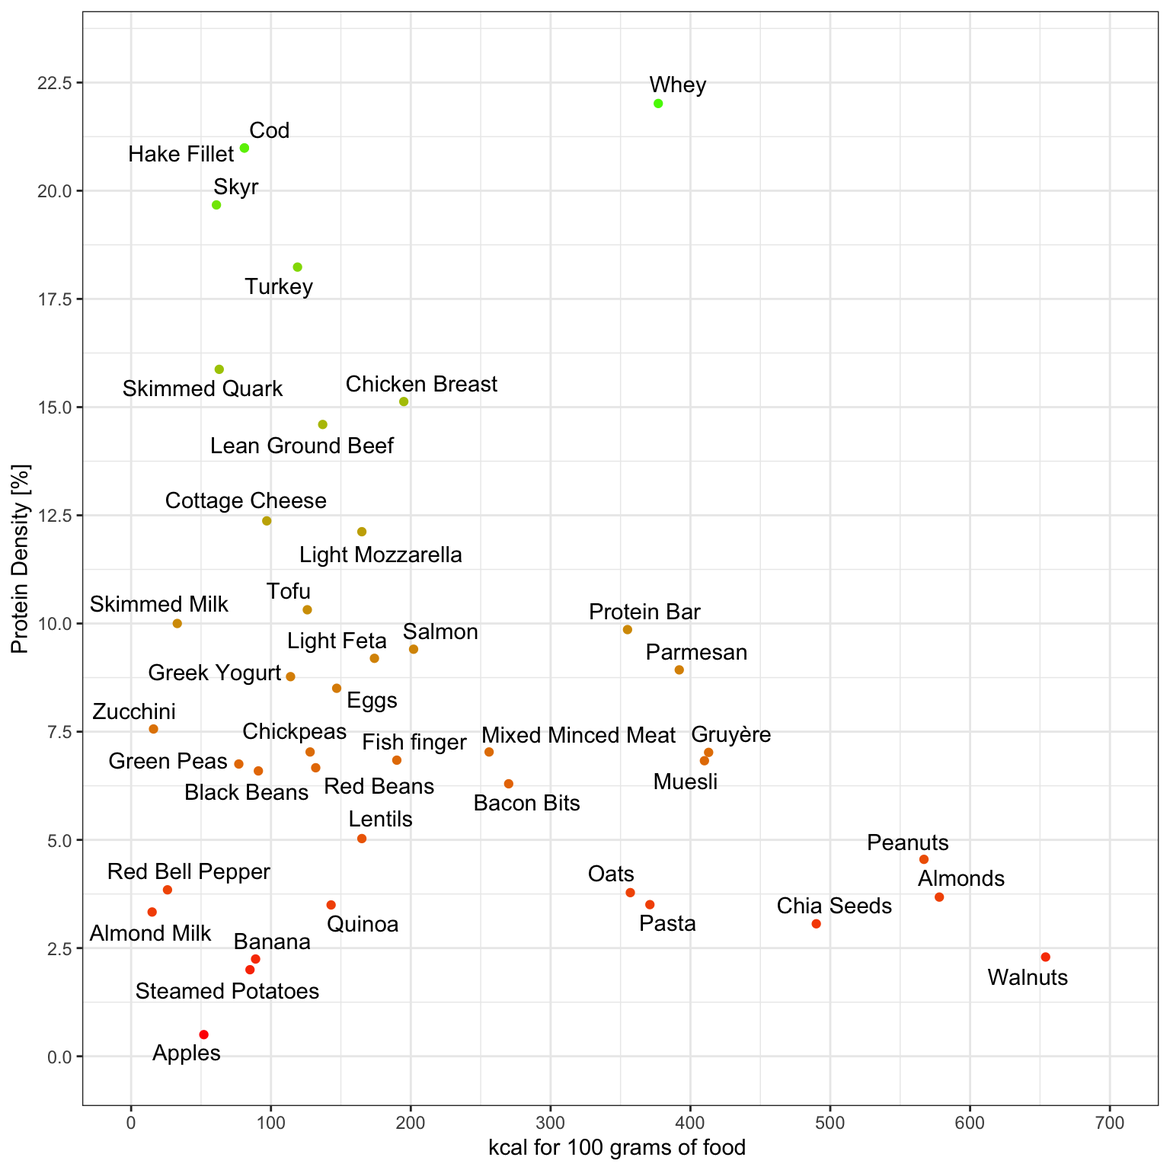
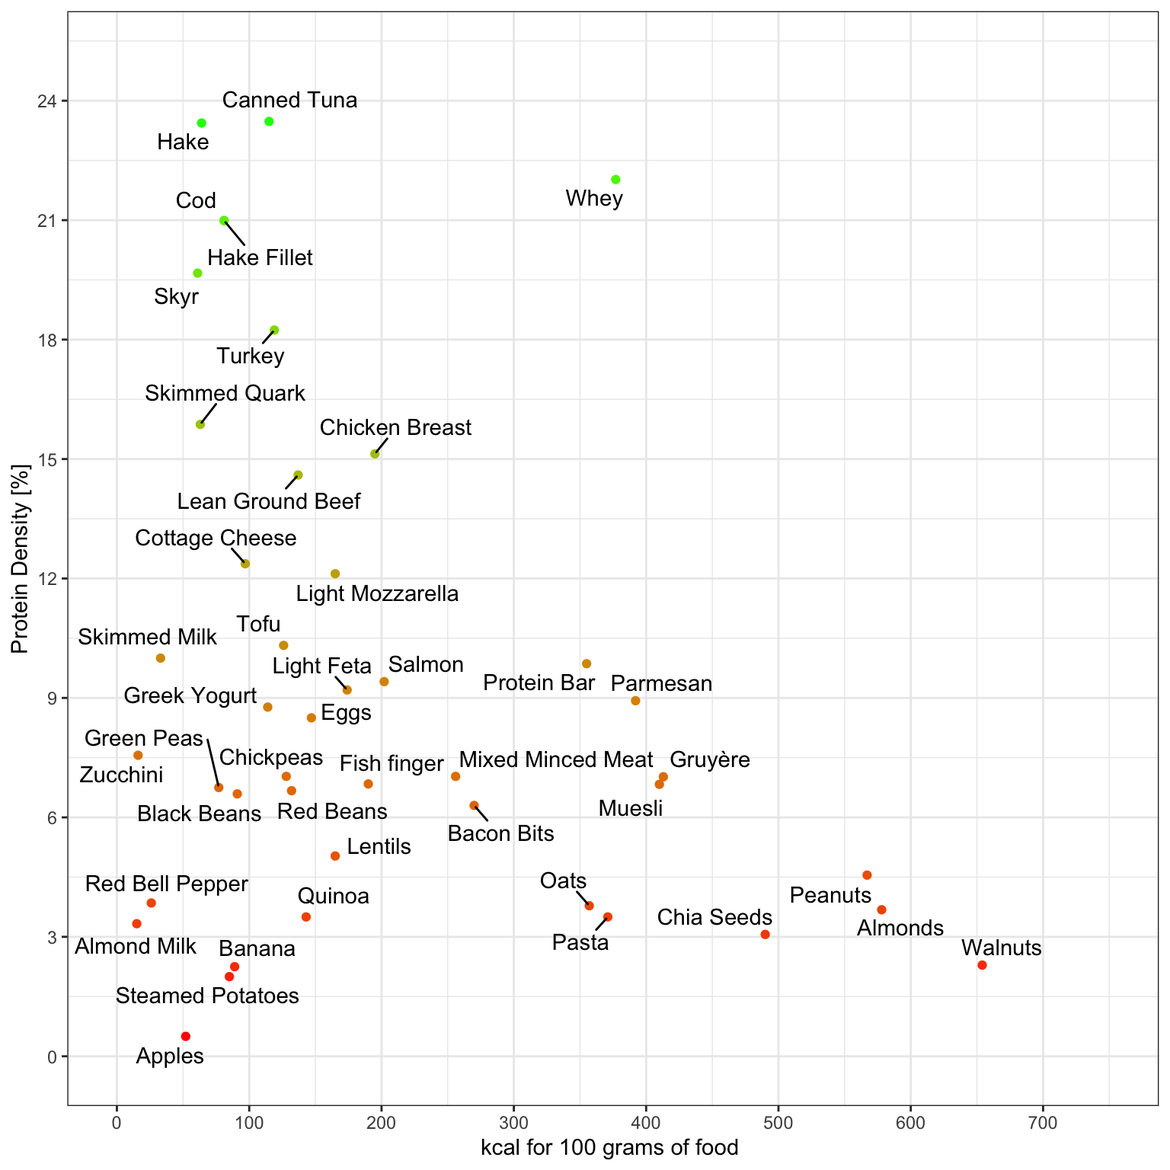
updates

diff --git a/dashboard.html b/dashboard.html
@@ -7,7 +7,7 @@
 <meta name="viewport" content="width=device-width, initial-scale=1.0, user-scalable=yes">
 
 <meta name="author" content="Andrés A.">
-<meta name="dcterms.date" content="2024-05-06">
+<meta name="dcterms.date" content="2024-05-23">
 
 <title>NutriPlot</title>
 <style>
@@ -116,7 +116,7 @@ pre > code.sourceCode > span > a:first-child::before { text-decoration: underlin
     <div>
     <div class="quarto-title-meta-heading">Published</div>
     <div class="quarto-title-meta-contents">
-      <p class="date">May 6, 2024</p>
+      <p class="date">May 23, 2024</p>
     </div>
   </div>
   
@@ -159,25 +159,33 @@ pre > code.sourceCode > span > a:first-child::before { text-decoration: underlin
 <summary>Code</summary>
 <div class="sourceCode cell-code" id="cb1"><pre class="sourceCode r code-with-copy"><code class="sourceCode r"><span id="cb1-1"><a href="#cb1-1" aria-hidden="true" tabindex="-1"></a><span class="fu">source</span>(<span class="st">"libraries.R"</span>)</span>
 <span id="cb1-2"><a href="#cb1-2" aria-hidden="true" tabindex="-1"></a></span>
-<span id="cb1-3"><a href="#cb1-3" aria-hidden="true" tabindex="-1"></a>dr <span class="ot">&lt;-</span> <span class="fu">read_csv</span>(<span class="st">"prot.csv"</span>, <span class="at">show_col_types =</span> <span class="cn">FALSE</span> )</span>
+<span id="cb1-3"><a href="#cb1-3" aria-hidden="true" tabindex="-1"></a>dr <span class="ot">&lt;-</span> <span class="fu">read_csv</span>(<span class="st">"data.csv"</span>, <span class="at">show_col_types =</span> <span class="cn">FALSE</span> )</span>
 <span id="cb1-4"><a href="#cb1-4" aria-hidden="true" tabindex="-1"></a></span>
 <span id="cb1-5"><a href="#cb1-5" aria-hidden="true" tabindex="-1"></a>df <span class="ot">&lt;-</span> dr <span class="sc">%&gt;%</span> </span>
-<span id="cb1-6"><a href="#cb1-6" aria-hidden="true" tabindex="-1"></a>  <span class="fu">mutate</span>(<span class="at">perc_prot =</span> prot_per_100g<span class="sc">/</span>kcal_per_100g<span class="sc">*</span><span class="dv">100</span>, <span class="at">prot_per_serving =</span> prot_per_100g <span class="sc">*</span>serving <span class="sc">/</span><span class="dv">100</span>,</span>
-<span id="cb1-7"><a href="#cb1-7" aria-hidden="true" tabindex="-1"></a>         <span class="at">kal_per_serving =</span> kcal_per_100g<span class="sc">*</span>serving <span class="sc">/</span><span class="dv">100</span>)</span>
-<span id="cb1-8"><a href="#cb1-8" aria-hidden="true" tabindex="-1"></a></span>
-<span id="cb1-9"><a href="#cb1-9" aria-hidden="true" tabindex="-1"></a>scatter_plot1 <span class="ot">&lt;-</span> df <span class="sc">%&gt;%</span> </span>
-<span id="cb1-10"><a href="#cb1-10" aria-hidden="true" tabindex="-1"></a>  <span class="fu">ggplot</span>() <span class="sc">+</span></span>
-<span id="cb1-11"><a href="#cb1-11" aria-hidden="true" tabindex="-1"></a>  <span class="co"># Add points to the plot with kcal on x-axis and perc_prot on y-axis</span></span>
-<span id="cb1-12"><a href="#cb1-12" aria-hidden="true" tabindex="-1"></a>  <span class="fu">geom_point</span>(<span class="fu">aes</span>(<span class="at">x =</span> kcal_per_100g, <span class="at">y =</span> perc_prot, <span class="at">color =</span> perc_prot, <span class="at">text =</span> name)) <span class="sc">+</span>    </span>
-<span id="cb1-13"><a href="#cb1-13" aria-hidden="true" tabindex="-1"></a>  <span class="co"># Add text labels using geom_text_repel</span></span>
-<span id="cb1-14"><a href="#cb1-14" aria-hidden="true" tabindex="-1"></a>  <span class="fu">geom_text_repel</span>(<span class="fu">aes</span>(<span class="at">x =</span> kcal_per_100g, <span class="at">y =</span> perc_prot, <span class="at">label =</span> name), <span class="at">force =</span> <span class="dv">6</span>) <span class="sc">+</span>  </span>
-<span id="cb1-15"><a href="#cb1-15" aria-hidden="true" tabindex="-1"></a>  <span class="fu">scale_x_continuous</span>(<span class="at">n.breaks =</span> <span class="dv">10</span>,<span class="at">limits =</span> <span class="fu">c</span>(<span class="dv">0</span>,<span class="dv">700</span>)) <span class="sc">+</span></span>
-<span id="cb1-16"><a href="#cb1-16" aria-hidden="true" tabindex="-1"></a>  <span class="fu">scale_y_continuous</span>(<span class="at">n.breaks =</span> <span class="dv">10</span>,<span class="at">limits =</span> <span class="fu">c</span>(<span class="dv">0</span>,<span class="dv">23</span>)) <span class="sc">+</span></span>
-<span id="cb1-17"><a href="#cb1-17" aria-hidden="true" tabindex="-1"></a>  <span class="fu">scale_color_gradient</span>(<span class="at">low =</span> <span class="st">'red'</span>,<span class="at">high =</span> <span class="st">"green"</span>) <span class="sc">+</span></span>
-<span id="cb1-18"><a href="#cb1-18" aria-hidden="true" tabindex="-1"></a>  <span class="fu">theme</span>(<span class="at">legend.position =</span> <span class="st">"none"</span>) <span class="sc">+</span></span>
-<span id="cb1-19"><a href="#cb1-19" aria-hidden="true" tabindex="-1"></a>  <span class="fu">labs</span>(<span class="at">y =</span> <span class="st">"Protein Density [%]"</span>, <span class="at">x =</span> <span class="st">"kcal for 100 grams of food "</span>)    </span>
-<span id="cb1-20"><a href="#cb1-20" aria-hidden="true" tabindex="-1"></a></span>
-<span id="cb1-21"><a href="#cb1-21" aria-hidden="true" tabindex="-1"></a>scatter_plot1</span></code><button title="Copy to Clipboard" class="code-copy-button"><i class="bi"></i></button></pre></div>
+<span id="cb1-6"><a href="#cb1-6" aria-hidden="true" tabindex="-1"></a>  <span class="fu">mutate</span>(<span class="at">perc_prot =</span> prot_per_100g<span class="sc">/</span>kcal_per_100g<span class="sc">*</span><span class="dv">100</span>, </span>
+<span id="cb1-7"><a href="#cb1-7" aria-hidden="true" tabindex="-1"></a>         <span class="at">prot_per_serving =</span> prot_per_100g <span class="sc">*</span>serving <span class="sc">/</span><span class="dv">100</span>,</span>
+<span id="cb1-8"><a href="#cb1-8" aria-hidden="true" tabindex="-1"></a>         <span class="at">kal_per_serving =</span> kcal_per_100g<span class="sc">*</span>serving <span class="sc">/</span><span class="dv">100</span>,</span>
+<span id="cb1-9"><a href="#cb1-9" aria-hidden="true" tabindex="-1"></a>         <span class="at">perc_prot =</span> <span class="fu">round</span>(perc_prot,<span class="dv">2</span>) </span>
+<span id="cb1-10"><a href="#cb1-10" aria-hidden="true" tabindex="-1"></a>         ) <span class="sc">|&gt;</span>   </span>
+<span id="cb1-11"><a href="#cb1-11" aria-hidden="true" tabindex="-1"></a>  <span class="fu">select</span>(name,kcal_per_100g,prot_per_100g,perc_prot)  <span class="sc">|&gt;</span> </span>
+<span id="cb1-12"><a href="#cb1-12" aria-hidden="true" tabindex="-1"></a>  dplyr<span class="sc">::</span><span class="fu">arrange</span>(<span class="fu">desc</span>(perc_prot)) </span>
+<span id="cb1-13"><a href="#cb1-13" aria-hidden="true" tabindex="-1"></a></span>
+<span id="cb1-14"><a href="#cb1-14" aria-hidden="true" tabindex="-1"></a>shared_df <span class="ot">&lt;-</span> SharedData<span class="sc">$</span><span class="fu">new</span>(df)</span>
+<span id="cb1-15"><a href="#cb1-15" aria-hidden="true" tabindex="-1"></a></span>
+<span id="cb1-16"><a href="#cb1-16" aria-hidden="true" tabindex="-1"></a>scatter_plot1 <span class="ot">&lt;-</span> shared_df <span class="sc">%&gt;%</span> </span>
+<span id="cb1-17"><a href="#cb1-17" aria-hidden="true" tabindex="-1"></a>  <span class="fu">ggplot</span>() <span class="sc">+</span></span>
+<span id="cb1-18"><a href="#cb1-18" aria-hidden="true" tabindex="-1"></a>  <span class="co"># Add points to the plot with kcal on x-axis and perc_prot on y-axis</span></span>
+<span id="cb1-19"><a href="#cb1-19" aria-hidden="true" tabindex="-1"></a>  <span class="fu">geom_point</span>(<span class="fu">aes</span>(<span class="at">x =</span> kcal_per_100g, <span class="at">y =</span> perc_prot, <span class="at">color =</span> perc_prot, <span class="at">text =</span> name)) <span class="sc">+</span>    </span>
+<span id="cb1-20"><a href="#cb1-20" aria-hidden="true" tabindex="-1"></a>  <span class="co"># Add text labels using geom_text_repel</span></span>
+<span id="cb1-21"><a href="#cb1-21" aria-hidden="true" tabindex="-1"></a>  <span class="fu">geom_text_repel</span>(<span class="fu">aes</span>(<span class="at">x =</span> kcal_per_100g, <span class="at">y =</span> perc_prot, <span class="at">label =</span> name), <span class="at">force =</span> <span class="dv">18</span>,<span class="at">max.overlaps =</span> <span class="dv">40</span>) <span class="sc">+</span>  </span>
+<span id="cb1-22"><a href="#cb1-22" aria-hidden="true" tabindex="-1"></a>  <span class="fu">scale_x_continuous</span>(<span class="at">n.breaks =</span> <span class="dv">10</span>,<span class="at">limits =</span> <span class="fu">c</span>(<span class="dv">0</span>,<span class="dv">750</span>)) <span class="sc">+</span></span>
+<span id="cb1-23"><a href="#cb1-23" aria-hidden="true" tabindex="-1"></a>  <span class="fu">scale_y_continuous</span>(<span class="at">n.breaks =</span> <span class="dv">10</span>,<span class="at">limits =</span> <span class="fu">c</span>(<span class="dv">0</span>,<span class="dv">25</span>)) <span class="sc">+</span></span>
+<span id="cb1-24"><a href="#cb1-24" aria-hidden="true" tabindex="-1"></a>  <span class="fu">scale_color_gradient</span>(<span class="at">low =</span> <span class="st">'red'</span>,<span class="at">high =</span> <span class="st">"green"</span>) <span class="sc">+</span></span>
+<span id="cb1-25"><a href="#cb1-25" aria-hidden="true" tabindex="-1"></a>  <span class="fu">theme</span>(<span class="at">legend.position =</span> <span class="st">"none"</span>) <span class="sc">+</span></span>
+<span id="cb1-26"><a href="#cb1-26" aria-hidden="true" tabindex="-1"></a>  <span class="fu">labs</span>(<span class="at">y =</span> <span class="st">"Protein Density [%]"</span>, <span class="at">x =</span> <span class="st">"kcal for 100 grams of food "</span>)    </span>
+<span id="cb1-27"><a href="#cb1-27" aria-hidden="true" tabindex="-1"></a></span>
+<span id="cb1-28"><a href="#cb1-28" aria-hidden="true" tabindex="-1"></a>scatter_plot1</span>
+<span id="cb1-29"><a href="#cb1-29" aria-hidden="true" tabindex="-1"></a><span class="co"># plotly::ggplotly(scatter_plot1)</span></span></code><button title="Copy to Clipboard" class="code-copy-button"><i class="bi"></i></button></pre></div>
 </details>
 <div class="cell-output-display">
 <div id="fig-NutriPlot1" class="quarto-figure quarto-figure-center quarto-float anchored">
@@ -195,33 +203,23 @@ Figure&nbsp;1: for 100g of content
 <div class="cell">
 <details class="code-fold">
 <summary>Code</summary>
-<div class="sourceCode cell-code" id="cb2"><pre class="sourceCode r code-with-copy"><code class="sourceCode r"><span id="cb2-1"><a href="#cb2-1" aria-hidden="true" tabindex="-1"></a><span class="co"># table_recap &lt;- df %&gt;% </span></span>
-<span id="cb2-2"><a href="#cb2-2" aria-hidden="true" tabindex="-1"></a><span class="co">#   select(name,kcal_per_100g,prot_per_100g,perc_prot) %&gt;% </span></span>
-<span id="cb2-3"><a href="#cb2-3" aria-hidden="true" tabindex="-1"></a><span class="co">#   dplyr::arrange(desc(perc_prot)) %&gt;% </span></span>
-<span id="cb2-4"><a href="#cb2-4" aria-hidden="true" tabindex="-1"></a><span class="co">#   kable(col.names = c("names","Kcal for 100g","grams protein for 100g of food","Protein Density [%]"),</span></span>
-<span id="cb2-5"><a href="#cb2-5" aria-hidden="true" tabindex="-1"></a><span class="co">#         digits = 2)</span></span>
-<span id="cb2-6"><a href="#cb2-6" aria-hidden="true" tabindex="-1"></a><span class="co"># </span></span>
-<span id="cb2-7"><a href="#cb2-7" aria-hidden="true" tabindex="-1"></a><span class="co"># </span></span>
-<span id="cb2-8"><a href="#cb2-8" aria-hidden="true" tabindex="-1"></a><span class="co"># table_recap</span></span>
-<span id="cb2-9"><a href="#cb2-9" aria-hidden="true" tabindex="-1"></a></span>
-<span id="cb2-10"><a href="#cb2-10" aria-hidden="true" tabindex="-1"></a>t <span class="ot">&lt;-</span> df <span class="sc">%&gt;%</span> </span>
-<span id="cb2-11"><a href="#cb2-11" aria-hidden="true" tabindex="-1"></a>  <span class="fu">mutate</span>(<span class="at">perc_prot =</span> <span class="fu">round</span>(perc_prot,<span class="dv">2</span>) ) <span class="sc">%&gt;%</span> </span>
-<span id="cb2-12"><a href="#cb2-12" aria-hidden="true" tabindex="-1"></a>  <span class="fu">select</span>(name,kcal_per_100g,prot_per_100g,perc_prot) <span class="sc">%&gt;%</span> </span>
-<span id="cb2-13"><a href="#cb2-13" aria-hidden="true" tabindex="-1"></a>  dplyr<span class="sc">::</span><span class="fu">arrange</span>(<span class="fu">desc</span>(perc_prot)) <span class="sc">%&gt;%</span> </span>
-<span id="cb2-14"><a href="#cb2-14" aria-hidden="true" tabindex="-1"></a>  DT<span class="sc">::</span><span class="fu">datatable</span>(<span class="at">colnames =</span> <span class="fu">c</span>(<span class="st">"names"</span>,<span class="st">"Kcal for 100g"</span>,<span class="st">"grams protein for 100g of food"</span>,<span class="st">"Protein Density [%]"</span>),</span>
-<span id="cb2-15"><a href="#cb2-15" aria-hidden="true" tabindex="-1"></a>                <span class="at">options =</span> <span class="fu">list</span>(<span class="at">paging =</span> T, </span>
-<span id="cb2-16"><a href="#cb2-16" aria-hidden="true" tabindex="-1"></a>                               <span class="at">pageLength =</span> <span class="dv">20</span>,</span>
-<span id="cb2-17"><a href="#cb2-17" aria-hidden="true" tabindex="-1"></a>                               <span class="at">dom =</span> <span class="st">"t"</span>,</span>
-<span id="cb2-18"><a href="#cb2-18" aria-hidden="true" tabindex="-1"></a>                               <span class="at">scrollX =</span> <span class="cn">TRUE</span>),</span>
-<span id="cb2-19"><a href="#cb2-19" aria-hidden="true" tabindex="-1"></a>                <span class="at">rownames =</span> <span class="cn">FALSE</span>,</span>
-<span id="cb2-20"><a href="#cb2-20" aria-hidden="true" tabindex="-1"></a>                <span class="at">filter =</span> <span class="st">'top'</span>,</span>
-<span id="cb2-21"><a href="#cb2-21" aria-hidden="true" tabindex="-1"></a>                <span class="at">escape =</span> F)</span>
-<span id="cb2-22"><a href="#cb2-22" aria-hidden="true" tabindex="-1"></a></span>
-<span id="cb2-23"><a href="#cb2-23" aria-hidden="true" tabindex="-1"></a>t</span></code><button title="Copy to Clipboard" class="code-copy-button"><i class="bi"></i></button></pre></div>
+<div class="sourceCode cell-code" id="cb2"><pre class="sourceCode r code-with-copy"><code class="sourceCode r"><span id="cb2-1"><a href="#cb2-1" aria-hidden="true" tabindex="-1"></a>t <span class="ot">&lt;-</span> shared_df <span class="sc">%&gt;%</span> </span>
+<span id="cb2-2"><a href="#cb2-2" aria-hidden="true" tabindex="-1"></a>  DT<span class="sc">::</span><span class="fu">datatable</span>(<span class="at">colnames =</span> <span class="fu">c</span>(<span class="st">"names"</span>,<span class="st">"Kcal for 100g"</span>,<span class="st">"grams protein for 100g of food"</span>,<span class="st">"Protein Density [%]"</span>),</span>
+<span id="cb2-3"><a href="#cb2-3" aria-hidden="true" tabindex="-1"></a>                <span class="at">options =</span> <span class="fu">list</span>(<span class="at">paging =</span> T, </span>
+<span id="cb2-4"><a href="#cb2-4" aria-hidden="true" tabindex="-1"></a>                               <span class="at">pageLength =</span> <span class="dv">20</span>,</span>
+<span id="cb2-5"><a href="#cb2-5" aria-hidden="true" tabindex="-1"></a>                               <span class="at">dom =</span> <span class="st">"t"</span>,</span>
+<span id="cb2-6"><a href="#cb2-6" aria-hidden="true" tabindex="-1"></a>                               <span class="at">scrollX =</span> <span class="cn">TRUE</span>),</span>
+<span id="cb2-7"><a href="#cb2-7" aria-hidden="true" tabindex="-1"></a>                <span class="at">rownames =</span> <span class="cn">FALSE</span>,</span>
+<span id="cb2-8"><a href="#cb2-8" aria-hidden="true" tabindex="-1"></a>                <span class="at">filter =</span> <span class="st">'top'</span>,</span>
+<span id="cb2-9"><a href="#cb2-9" aria-hidden="true" tabindex="-1"></a>                <span class="at">escape =</span> F,</span>
+<span id="cb2-10"><a href="#cb2-10" aria-hidden="true" tabindex="-1"></a>                <span class="at">selection =</span> <span class="st">"single"</span></span>
+<span id="cb2-11"><a href="#cb2-11" aria-hidden="true" tabindex="-1"></a>                )</span>
+<span id="cb2-12"><a href="#cb2-12" aria-hidden="true" tabindex="-1"></a></span>
+<span id="cb2-13"><a href="#cb2-13" aria-hidden="true" tabindex="-1"></a>t</span></code><button title="Copy to Clipboard" class="code-copy-button"><i class="bi"></i></button></pre></div>
 </details>
 <div class="cell-output-display">
-<div class="datatables html-widget html-fill-item" id="htmlwidget-96a62a12fa3909d7cb94" style="width:100%;height:auto;"></div>
-<script type="application/json" data-for="htmlwidget-96a62a12fa3909d7cb94">{"x":{"filter":"top","vertical":false,"filterHTML":"<tr>\n  <td data-type=\"character\" style=\"vertical-align: top;\">\n    <div class=\"form-group has-feedback\" style=\"margin-bottom: auto;\">\n      <input type=\"search\" placeholder=\"All\" class=\"form-control\" style=\"width: 100%;\"/>\n      <span class=\"glyphicon glyphicon-remove-circle form-control-feedback\"><\/span>\n    <\/div>\n  <\/td>\n  <td data-type=\"number\" style=\"vertical-align: top;\">\n    <div class=\"form-group has-feedback\" style=\"margin-bottom: auto;\">\n      <input type=\"search\" placeholder=\"All\" class=\"form-control\" style=\"width: 100%;\"/>\n      <span class=\"glyphicon glyphicon-remove-circle form-control-feedback\"><\/span>\n    <\/div>\n    <div style=\"display: none;position: absolute;width: 200px;opacity: 1\">\n      <div data-min=\"15\" data-max=\"654\"><\/div>\n      <span style=\"float: left;\"><\/span>\n      <span style=\"float: right;\"><\/span>\n    <\/div>\n  <\/td>\n  <td data-type=\"number\" style=\"vertical-align: top;\">\n    <div class=\"form-group has-feedback\" style=\"margin-bottom: auto;\">\n      <input type=\"search\" placeholder=\"All\" class=\"form-control\" style=\"width: 100%;\"/>\n      <span class=\"glyphicon glyphicon-remove-circle form-control-feedback\"><\/span>\n    <\/div>\n    <div style=\"display: none;position: absolute;width: 200px;opacity: 1\">\n      <div data-min=\"0.26\" data-max=\"83\" data-scale=\"2\"><\/div>\n      <span style=\"float: left;\"><\/span>\n      <span style=\"float: right;\"><\/span>\n    <\/div>\n  <\/td>\n  <td data-type=\"number\" style=\"vertical-align: top;\">\n    <div class=\"form-group has-feedback\" style=\"margin-bottom: auto;\">\n      <input type=\"search\" placeholder=\"All\" class=\"form-control\" style=\"width: 100%;\"/>\n      <span class=\"glyphicon glyphicon-remove-circle form-control-feedback\"><\/span>\n    <\/div>\n    <div style=\"display: none;position: absolute;width: 200px;opacity: 1\">\n      <div data-min=\"0.5\" data-max=\"23.48\" data-scale=\"2\"><\/div>\n      <span style=\"float: left;\"><\/span>\n      <span style=\"float: right;\"><\/span>\n    <\/div>\n  <\/td>\n<\/tr>","data":[["Tuna","Hake","Whey","Cod","Hake Fillet","Skyr","Turkey","Skimmed Quark","Chicken Breast","Lean Ground Beef","Cottage Cheese","Light Mozzarella","Tofu","Skimmed Milk","Protein Bar","Salmon","Light Feta","Parmesan","Greek Yogurt","Eggs","Zucchini","Chickpeas","Mixed Minced Meat","Gruyère","Fish finger","Muesli","Green Peas","Red Beans","Black Beans","Bacon Bits","Lentils","Peanuts","Red Bell Pepper","Oats","Almonds","Quinoa","Pasta","Almond Milk","Chia Seeds","Walnuts","Banana","Steamed Potatoes","Apples"],[115,64,377,81,81,61,119,63,195,137,97,165,126,33,355,202,174,392,114,147,16,128,256,413,190,410,77,132,91,270,165,567,26,357,578,143,371,15,490,654,89,85,52],[27,15,83,17,17,12,21.7,10,29.5,20,12,20,13,3.3,35,19,16,35,10,12.5,1.21,9,18,29,13,28,5.2,8.800000000000001,6,17,8.300000000000001,25.8,1,13.5,21.26,5,13,0.5,15,15,2,1.7,0.26],[23.48,23.44,22.02,20.99,20.99,19.67,18.24,15.87,15.13,14.6,12.37,12.12,10.32,10,9.859999999999999,9.41,9.199999999999999,8.93,8.77,8.5,7.56,7.03,7.03,7.02,6.84,6.83,6.75,6.67,6.59,6.3,5.03,4.55,3.85,3.78,3.68,3.5,3.5,3.33,3.06,2.29,2.25,2,0.5]],"container":"<table class=\"display\">\n  <thead>\n    <tr>\n      <th>names<\/th>\n      <th>Kcal for 100g<\/th>\n      <th>grams protein for 100g of food<\/th>\n      <th>Protein Density [%]<\/th>\n    <\/tr>\n  <\/thead>\n<\/table>","options":{"paging":true,"pageLength":20,"dom":"t","scrollX":true,"columnDefs":[{"className":"dt-right","targets":[1,2,3]},{"name":"name","targets":0},{"name":"kcal_per_100g","targets":1},{"name":"prot_per_100g","targets":2},{"name":"perc_prot","targets":3}],"order":[],"autoWidth":false,"orderClasses":false,"orderCellsTop":true,"lengthMenu":[10,20,25,50,100]}},"evals":[],"jsHooks":[]}</script>
+<div class="datatables html-widget html-fill-item" id="htmlwidget-0a72a7bbe25f288b1b7b" style="width:100%;height:auto;"></div>
+<script type="application/json" data-for="htmlwidget-0a72a7bbe25f288b1b7b">{"x":{"crosstalkOptions":{"key":["1","2","3","4","5","6","7","8","9","10","11","12","13","14","15","16","17","18","19","20","21","22","23","24","25","26","27","28","29","30","31","32","33","34","35","36","37","38","39","40","41","42","43"],"group":"SharedDataf0e23dd4"},"filter":"top","vertical":false,"filterHTML":"<tr>\n  <td data-type=\"character\" style=\"vertical-align: top;\">\n    <div class=\"form-group has-feedback\" style=\"margin-bottom: auto;\">\n      <input type=\"search\" placeholder=\"All\" class=\"form-control\" style=\"width: 100%;\"/>\n      <span class=\"glyphicon glyphicon-remove-circle form-control-feedback\"><\/span>\n    <\/div>\n  <\/td>\n  <td data-type=\"number\" style=\"vertical-align: top;\">\n    <div class=\"form-group has-feedback\" style=\"margin-bottom: auto;\">\n      <input type=\"search\" placeholder=\"All\" class=\"form-control\" style=\"width: 100%;\"/>\n      <span class=\"glyphicon glyphicon-remove-circle form-control-feedback\"><\/span>\n    <\/div>\n    <div style=\"display: none;position: absolute;width: 200px;opacity: 1\">\n      <div data-min=\"15\" data-max=\"654\"><\/div>\n      <span style=\"float: left;\"><\/span>\n      <span style=\"float: right;\"><\/span>\n    <\/div>\n  <\/td>\n  <td data-type=\"number\" style=\"vertical-align: top;\">\n    <div class=\"form-group has-feedback\" style=\"margin-bottom: auto;\">\n      <input type=\"search\" placeholder=\"All\" class=\"form-control\" style=\"width: 100%;\"/>\n      <span class=\"glyphicon glyphicon-remove-circle form-control-feedback\"><\/span>\n    <\/div>\n    <div style=\"display: none;position: absolute;width: 200px;opacity: 1\">\n      <div data-min=\"0.26\" data-max=\"83\" data-scale=\"2\"><\/div>\n      <span style=\"float: left;\"><\/span>\n      <span style=\"float: right;\"><\/span>\n    <\/div>\n  <\/td>\n  <td data-type=\"number\" style=\"vertical-align: top;\">\n    <div class=\"form-group has-feedback\" style=\"margin-bottom: auto;\">\n      <input type=\"search\" placeholder=\"All\" class=\"form-control\" style=\"width: 100%;\"/>\n      <span class=\"glyphicon glyphicon-remove-circle form-control-feedback\"><\/span>\n    <\/div>\n    <div style=\"display: none;position: absolute;width: 200px;opacity: 1\">\n      <div data-min=\"0.5\" data-max=\"23.48\" data-scale=\"2\"><\/div>\n      <span style=\"float: left;\"><\/span>\n      <span style=\"float: right;\"><\/span>\n    <\/div>\n  <\/td>\n<\/tr>","data":[["Canned Tuna","Hake","Whey","Cod","Hake Fillet","Skyr","Turkey","Skimmed Quark","Chicken Breast","Lean Ground Beef","Cottage Cheese","Light Mozzarella","Tofu","Skimmed Milk","Protein Bar","Salmon","Light Feta","Parmesan","Greek Yogurt","Eggs","Zucchini","Chickpeas","Mixed Minced Meat","Gruyère","Fish finger","Muesli","Green Peas","Red Beans","Black Beans","Bacon Bits","Lentils","Peanuts","Red Bell Pepper","Oats","Almonds","Quinoa","Pasta","Almond Milk","Chia Seeds","Walnuts","Banana","Steamed Potatoes","Apples"],[115,64,377,81,81,61,119,63,195,137,97,165,126,33,355,202,174,392,114,147,16,128,256,413,190,410,77,132,91,270,165,567,26,357,578,143,371,15,490,654,89,85,52],[27,15,83,17,17,12,21.7,10,29.5,20,12,20,13,3.3,35,19,16,35,10,12.5,1.21,9,18,29,13,28,5.2,8.800000000000001,6,17,8.300000000000001,25.8,1,13.5,21.26,5,13,0.5,15,15,2,1.7,0.26],[23.48,23.44,22.02,20.99,20.99,19.67,18.24,15.87,15.13,14.6,12.37,12.12,10.32,10,9.859999999999999,9.41,9.199999999999999,8.93,8.77,8.5,7.56,7.03,7.03,7.02,6.84,6.83,6.75,6.67,6.59,6.3,5.03,4.55,3.85,3.78,3.68,3.5,3.5,3.33,3.06,2.29,2.25,2,0.5]],"container":"<table class=\"display\">\n  <thead>\n    <tr>\n      <th>names<\/th>\n      <th>Kcal for 100g<\/th>\n      <th>grams protein for 100g of food<\/th>\n      <th>Protein Density [%]<\/th>\n    <\/tr>\n  <\/thead>\n<\/table>","options":{"paging":true,"pageLength":20,"dom":"t","scrollX":true,"columnDefs":[{"className":"dt-right","targets":[1,2,3]},{"name":"name","targets":0},{"name":"kcal_per_100g","targets":1},{"name":"prot_per_100g","targets":2},{"name":"perc_prot","targets":3}],"order":[],"autoWidth":false,"orderClasses":false,"orderCellsTop":true,"lengthMenu":[10,20,25,50,100]},"selection":{"mode":"single","selected":null,"target":"row","selectable":null}},"evals":[],"jsHooks":[]}</script>
 <p>Table</p>
 </div>
 </div>
